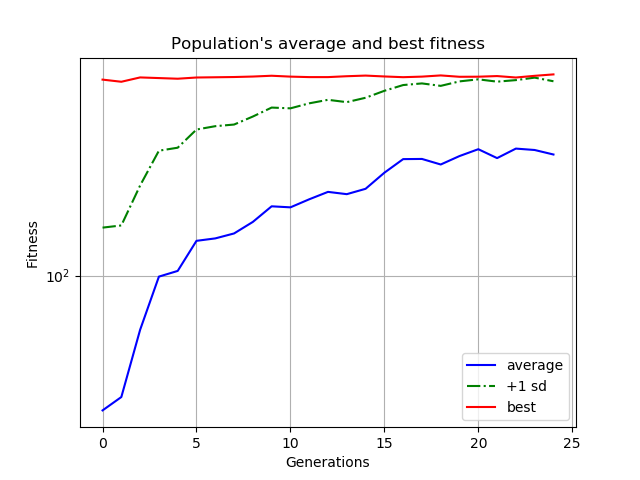
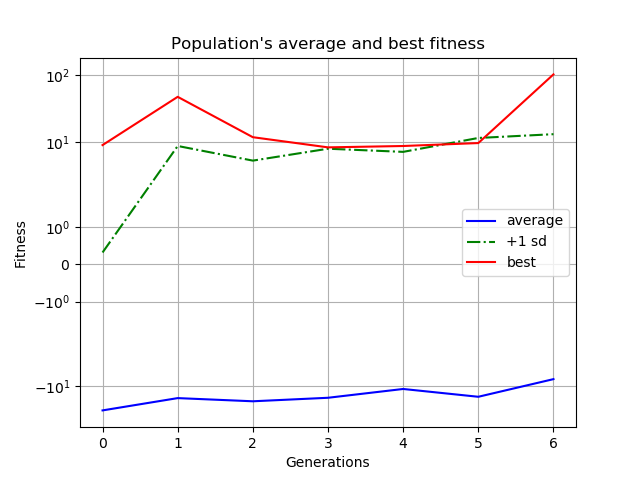
Refactored to fit BipedalWalker-v3, but havent achieved success yet. Problem seems to lie with fitness fxn.

diff --git a/BipedalWalker_v3/find-genome.py b/BipedalWalker_v3/find-genome.py
@@ -12,7 +12,7 @@ import gym
 
 
 
-runs_per_net = 4
+runs_per_net = 2
 # simulation_seconds = 60.0
 
 
@@ -24,67 +24,39 @@ def eval_genome(genome, config):
 
     # Run the given simulation for up to num_steps time steps.
     for runs in range(runs_per_net):
-        env = gym.make("Acrobot-v1") # make new gym environment for every new agent in the epoch 
+        env = gym.make("BipedalWalker-v3") # make new gym environment for every new agent in the epoch 
 
         observation = env.reset() # reset the agents observations in the newly-minted environment
 
-        max_height = -2 # the highest point is when observation = [0 1 0 1 . .]
 
         done = False
+
+        fitness = 0 # can only go 100 to the left before fall off cliff
 
         i = 0 # add transience to fitness
 
         while not done:
-            action = np.argmax(net.activate(observation))
+            action = net.activate(observation)
         
             observation, reward, done, info = env.step(action)
-        
-            # theta = angle of bar closest to hub
-            # alpha = angle of bar farthest from hub
-            #NEED TO USE ARCTAN so we can get proper sign on our angles
-            theta_tan = np.arctan(observation[1] / observation[0]) 
-            alpha_tan = np.arctan(observation[3] / observation[2]) 
-            theta_tan_deg = theta_tan * 180 / np.pi
-            alpha_tan_deg = alpha_tan * 180 / np.pi
-        
-            theta_cos = np.arccos(observation[0])
-            alpha_cos = np.arccos(observation[2])
-            theta_cos_deg = theta_cos * 180 / np.pi
-            alpha_cos_deg = alpha_cos * 180 / np.pi
-        
-            alpha = alpha_tan
-            theta = theta_tan
-        
-            cos_theta = observation[0]
-        
-            if alpha_cos_deg >= 90:
-                if theta_tan_deg > 0:            
-                    alpha = alpha_cos
-                else:
-                    alpha = - alpha_cos
-            if theta_cos_deg >= 90:
-                if theta_tan_deg >= 0: # left quadrants
-                    theta = - theta_cos
-                else: # right quadrants
-                    theta = theta_cos
-
-            h1 = - cos_theta
-            h2 = - np.cos(2 * np.pi - theta - alpha)
-
-            current_height = h1 + h2
-
-            transient_factor = (500 - i) / 500 # will be 1.0 on first frame and 0 at last frame
-
-            if current_height > 1.0:
-                current_height = 1.0
-
-            current_fitness = transient_factor * current_height**2
-
-            # fitness = np.max([max_height, current_fitness])
 
             i += 1
+        
+            # transient_factor = i / 1600 # (.995) ** 1600 = 0.003. 1600 is cycle loop limit. will be 1.0 on first frame and 0 at last frame
+            
 
-            fitness = 500 - i # sometimes the easiest solutions are the most-correct!
+            if reward > 0:
+                fitness += (2*reward)
+            else:    
+                fitness += reward
+
+
+            # fitness = np.max([max_distance_travelled, reward])
+
+            
+            
+            # fitness = reward
+
 
 
 

diff --git a/BipedalWalker_v3/neat-solution.py b/BipedalWalker_v3/neat-solution.py
@@ -20,7 +20,7 @@ config = neat.Config(neat.DefaultGenome, neat.DefaultReproduction, neat.DefaultS
 
 net = neat.nn.FeedForwardNetwork.create(c, config)
 
-env = gym.make('Acrobot-v1')
+env = gym.make('BipedalWalker-v3')
 observation = env. reset()
 
 done= False
@@ -28,7 +28,7 @@ done= False
 i = 0
 
 while not done:
-    action = np.argmax(net.activate(observation))
+    action = net.activate(observation)
 
     observation, reward, done, info = env.step(action)
 
@@ -36,42 +36,8 @@ while not done:
 
     i += 1
 
-    # theta = angle of bar closest to hub
-    # alpha = angle of bar farthest from hub
-    #NEED TO USE ARCTAN so we can get proper sign on our angles
-    theta_tan = np.arctan(observation[1] / observation[0]) 
-    alpha_tan = np.arctan(observation[3] / observation[2]) 
-    theta_tan_deg = theta_tan * 180 / np.pi
-    alpha_tan_deg = alpha_tan * 180 / np.pi
 
-    theta_cos = np.arccos(observation[0])
-    alpha_cos = np.arccos(observation[2])
-    theta_cos_deg = theta_cos * 180 / np.pi
-    alpha_cos_deg = alpha_cos * 180 / np.pi
-
-    alpha = alpha_tan
-    theta = theta_tan
-
-    cos_theta = observation[0]
-
-    if alpha_cos_deg >= 90:
-        if theta_tan_deg > 0:            
-            alpha = alpha_cos
-        else:
-            alpha = - alpha_cos
-    if theta_cos_deg >= 90:
-        if theta_tan_deg >= 0: # left quadrants
-            theta = - theta_cos
-        else: # right quadrants
-            theta = theta_cos
-
-    h1 = - cos_theta
-    h2 = - np.cos(2 * np.pi - theta - alpha)
-
-    current_height = h1 + h2
-
-
-    print(observation[0:4], action, i)
+    # print(observation[0:4], action, i)
 
  
 

diff --git a/BipedalWalker_v3/env-testing.py b/BipedalWalker_v3/env-testing.py
@@ -22,7 +22,9 @@ while not done: # loop environment
 
     i += 1
 
-    print(action, observation, reward, done, info, i) # ok so done == True when conditions of 
+    # print(action, observation, reward, done, info, i) # ok so done == True when conditions of 
+
+    print(done)
 
     env.render()
 
